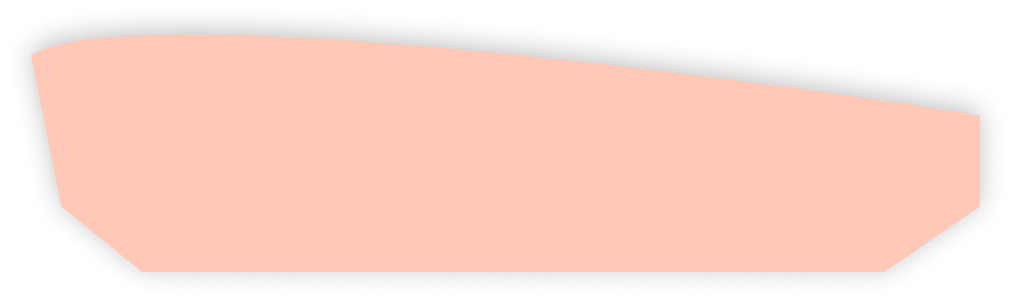
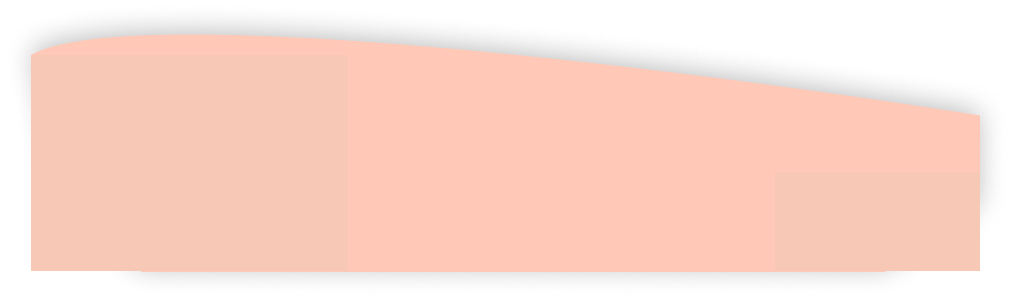
More changes to login screen. Can't figure out how to make the image on the botttom of the fit the whole screen width

Changed region(s): [[0.0307, 0.2408, 0.1533, 0.9331], [0.8586, 0.6923, 0.9812, 0.9331]]

diff --git a/lib/login_screen/public_speak_login.dart b/lib/login_screen/public_speak_login.dart
@@ -21,17 +21,13 @@ class _PublicSpeakLoginState extends State<PublicSpeakLogin> {
             ),
           ),
           Container(
-              height: 150,
+              height: 200,
               decoration: const BoxDecoration(
                 image: DecorationImage(
                   fit: BoxFit.cover,
                   image: AssetImage('assets/login_screen_top.png'),
                 ),
                 shape: BoxShape.rectangle,
-                //color: Color(0xffFFC8B7),
-                // boxShadow: [
-                //   BoxShadow(color: Colors.grey, spreadRadius: -1, blurRadius: 5),
-                // ],
               )),
         ]),
         const SizedBox(height: 150),
@@ -74,11 +70,15 @@ class _PublicSpeakLoginState extends State<PublicSpeakLogin> {
             child: Text('Register'),
           ),
         ),
-        const SizedBox(
-          height: 135,
-        ),
-        const Image(image: AssetImage("assets/login_screen_bottom.png"))
       ]),
+      bottomNavigationBar: Container(
+          height: 75,
+          decoration: const BoxDecoration(
+              shape: BoxShape.rectangle,
+              image: DecorationImage(
+                fit: BoxFit.cover,
+                image: AssetImage('assets/login_screen_bottom.png'),
+              ))),
     );
   }
 }
